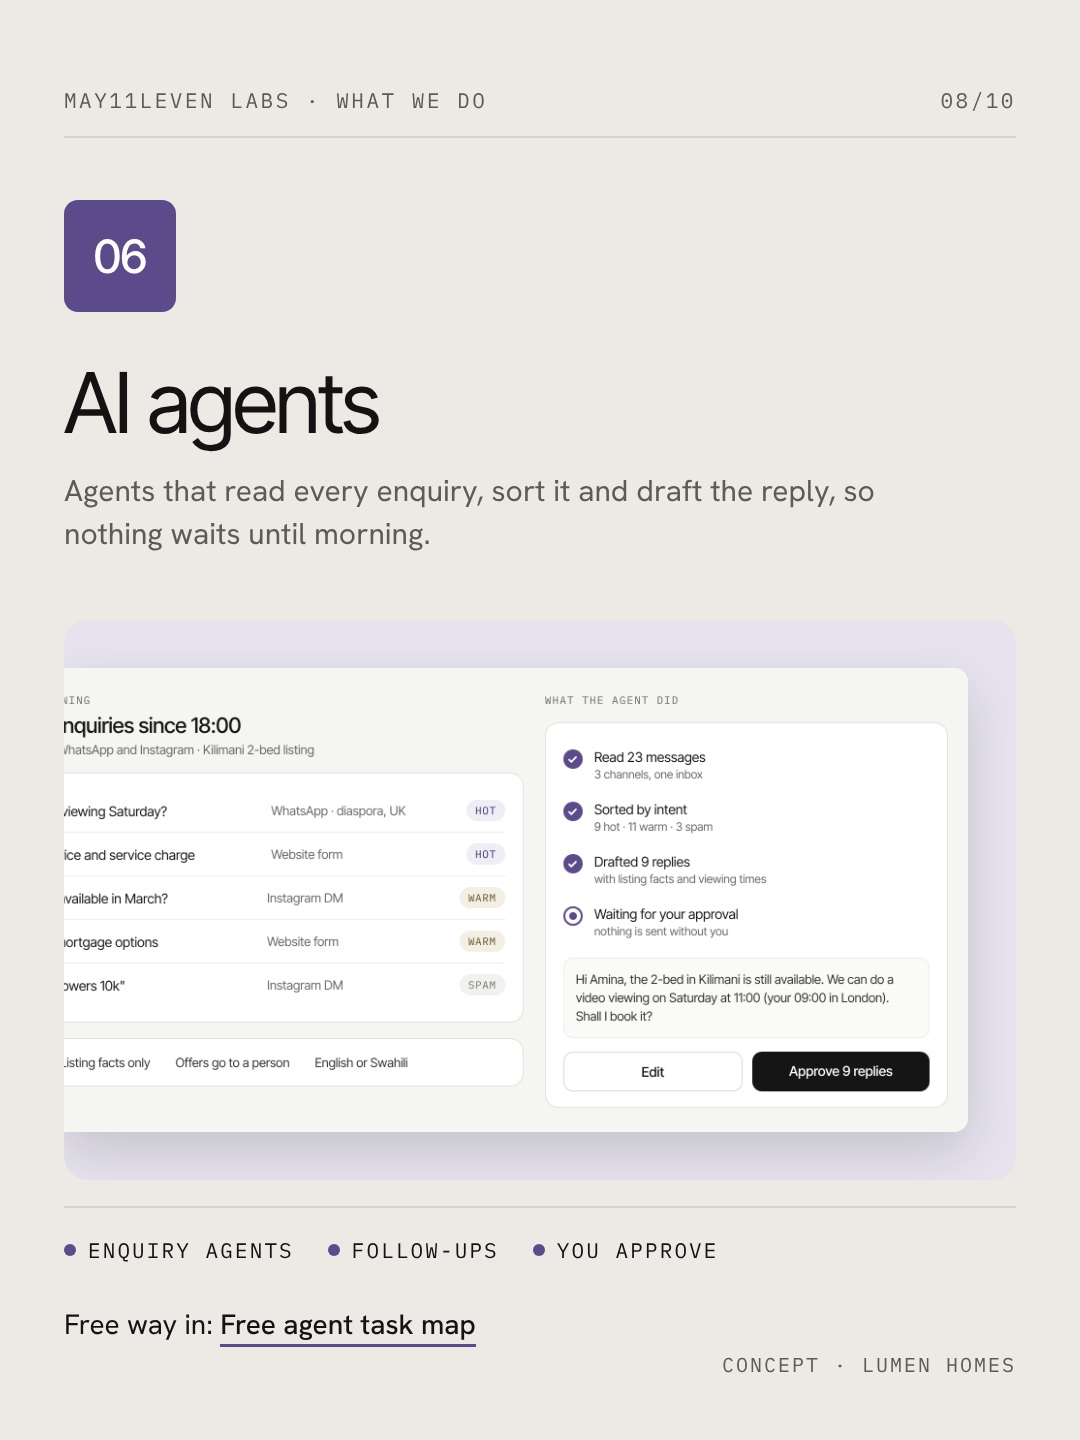
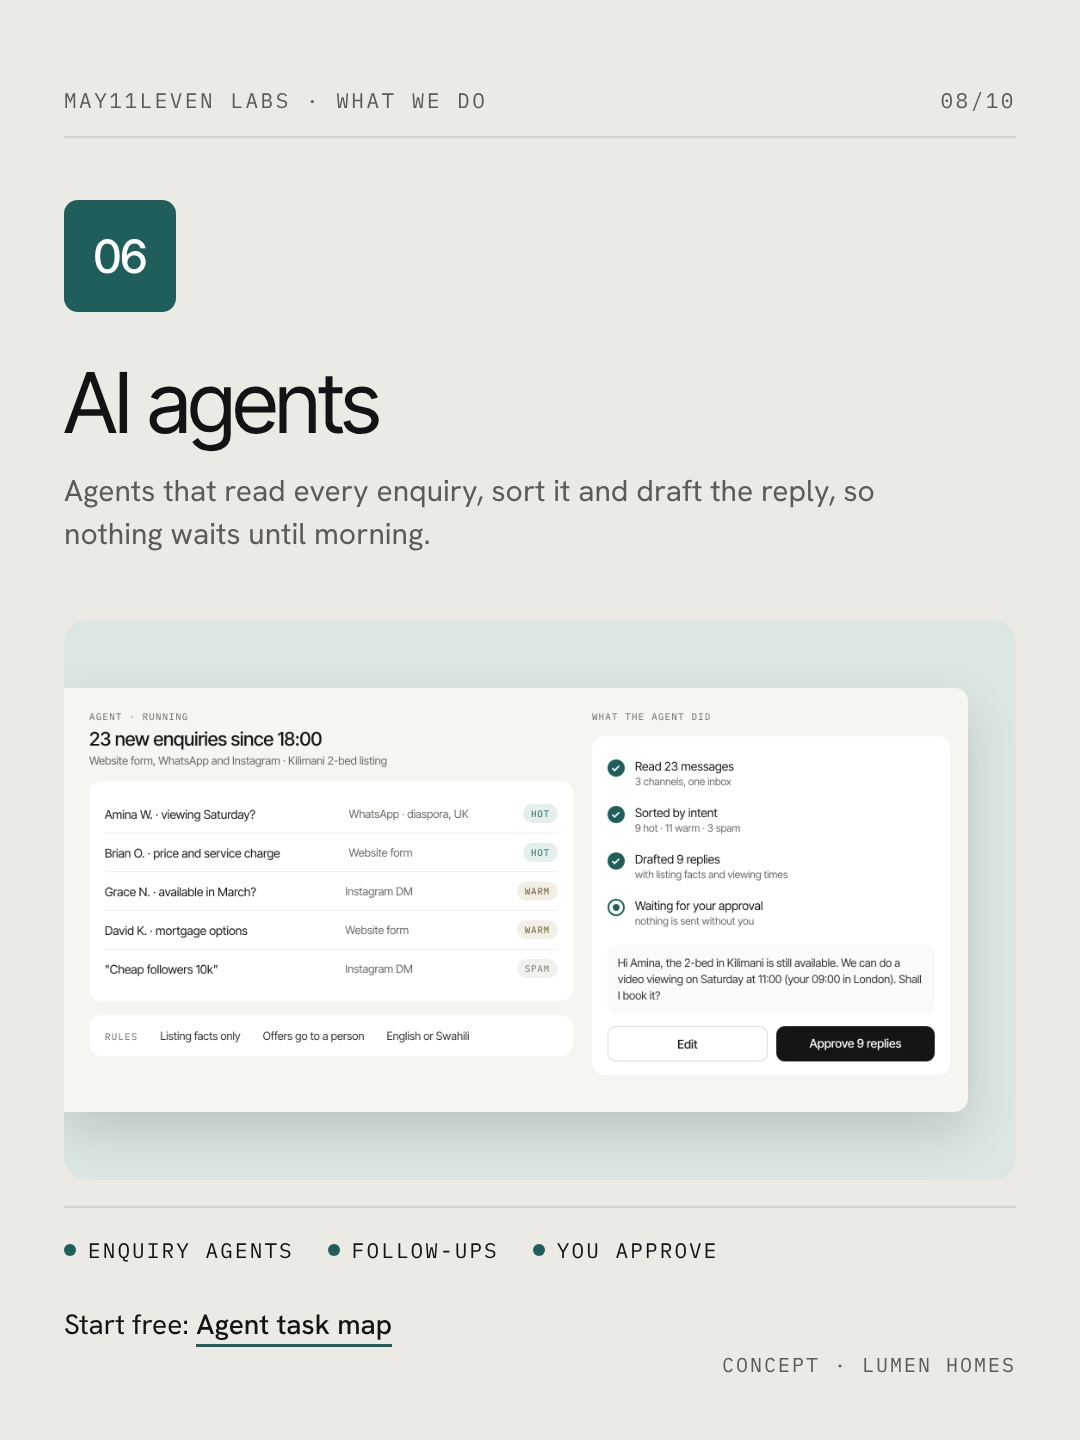
Services carousel: AI agents colour Dusk to Kelp (anti-slop), clean screen crop, 'Start free' offer line
Claude-Session: https://claude.ai/code/session_019pcNfRHGxsRYW5k4Gc3WRr

diff --git a/brand/code/agent.html b/brand/code/agent.html
@@ -5,9 +5,9 @@
 *{margin:0;box-sizing:border-box}
 body{width:1280px;height:480px;background:#F5F5F2;font-family:IT;color:#151515;display:flex}
 .side{width:220px; background:#fff; padding:22px 18px}
-.logo{font:500 18px IT;letter-spacing:-.01em;margin-bottom:26px}.logo span{color:#5B4B8A}
+.logo{font:500 18px IT;letter-spacing:-.01em;margin-bottom:26px}.logo span{color:#1F5E5A}
 .nav div{padding:9px 12px;border-radius:8px;font-size:14px;color:#55544F;margin-bottom:2px}
-.nav .on{background:#EFEDF5;color:#2E2550;font-weight:500}
+.nav .on{background:#E4EEEC;color:#17423F;font-weight:500}
 .main{flex:1;padding:26px 30px;display:flex;gap:22px}
 .col{flex:1.35}.col2{flex:1}
 h2{font:500 22px IT;letter-spacing:-.015em}.sub{font-size:13px;color:#6A6964;margin-top:4px}
@@ -16,10 +16,10 @@ h2{font:500 22px IT;letter-spacing:-.015em}.sub{font-size:13px;color:#6A6964;mar
 .row{display:flex;align-items:center;padding:11px 0;border-top:1px solid #EFEEEA;font-size:14px}
 .row:first-of-type{border-top:0}
 .nm{flex:1.4}.src{flex:1;color:#6A6964;font-size:13px}.tag{font:11px PM;letter-spacing:.06em;padding:4px 9px;border-radius:99px}
-.hot{background:#EFEDF5;color:var(--accent, currentColor)}.warm{background:#F3EFE6;color:#6B5420}.spam{background:#F1F1EF;color:#77766F}
+.hot{background:#E4EEEC;color:#1F5E5A}.warm{background:#F3EFE6;color:#6B5420}.spam{background:#F1F1EF;color:#77766F}
 .step{display:flex;gap:12px;padding:10px 0;font-size:14px;align-items:flex-start}
 .ic{width:20px;height:20px;border-radius:50%;flex:none;display:flex;align-items:center;justify-content:center;margin-top:1px}
-.done{background:#5B4B8A}.now{border:2px solid #5B4B8A}.now:after{content:"";width:8px;height:8px;border-radius:50%;background:#5B4B8A}
+.done{background:#1F5E5A}.now{border:2px solid #1F5E5A}.now:after{content:"";width:8px;height:8px;border-radius:50%;background:#1F5E5A}
 .st small{display:block;color:#6A6964;font-size:12px;margin-top:2px}
 .draft{background:#FAFAF8; border-radius:10px; padding:12px; font-size:13px; line-height:1.45; color:#33322E; margin-top:10px}
 .btns{display:flex;gap:10px;margin-top:14px}.b{flex:1;text-align:center;padding:11px;border-radius:10px;font:500 14px IT}

diff --git a/brand/code/slides.py b/brand/code/slides.py
@@ -1,0 +1,93 @@
+"""'What we do' services carousel. 9 slides 1080x1440. Bone base; each service owns its series accent."""
+import asyncio, os
+from playwright.async_api import async_playwright
+F = '/home/claude/fonts-lab/node_modules/@fontsource/'; K = '/home/claude/kit/'; D = '/home/claude/svc/'
+OUT = D + 'out/'; os.makedirs(OUT, exist_ok=True); N = 10
+BONE, INK, ASH = '#ECEAE4', '#141213', '#5E5B57'
+CSS = f"""
+@font-face{{font-family:IT;src:url({K}fonts/InterTight-Regular.ttf)}}
+@font-face{{font-family:IT;src:url({K}fonts/InterTight-Medium.ttf);font-weight:500}}
+@font-face{{font-family:HK;src:url({F}hanken-grotesk/files/hanken-grotesk-latin-400-normal.woff2)}}
+@font-face{{font-family:HK;src:url({F}hanken-grotesk/files/hanken-grotesk-latin-500-normal.woff2);font-weight:500}}
+@font-face{{font-family:IS;src:url({K}fonts/InstrumentSerif-Italic.ttf);font-style:italic}}
+@font-face{{font-family:PM;src:url({K}fonts2/PlexMono.ttf)}}
+*{{margin:0;box-sizing:border-box}}
+body{{width:1080px;height:1440px;position:relative;overflow:hidden;font-family:IT;background:var(--bg);color:var(--fg)}}
+.lab{{position:absolute;top:86px;font-family:PM;font-size:21px;letter-spacing:.12em;text-transform:uppercase;color:var(--mid)}}
+.l{{left:64px}}.r{{right:64px}}
+h1{{position:absolute;left:64px;right:64px;font-weight:400;font-size:84px;line-height:1.03;letter-spacing:-.03em}}
+h1 i{{font-family:IS;font-style:italic;font-size:1.12em;letter-spacing:-.01em}}
+p{{position:absolute;left:64px;font-family:HK;font-size:30px;line-height:1.42;color:var(--mid);max-width:860px}}
+.num{{position:absolute;left:64px;top:200px;width:112px;height:112px;border-radius:14px;display:flex;align-items:center;justify-content:center;font:500 46px IT;letter-spacing:-.02em}}
+.card{{position:absolute;left:64px;top:620px;width:952px;height:560px;border-radius:24px;overflow:hidden}}
+.dl{{position:absolute;left:64px;top:1226px;display:flex;gap:34px;font-family:PM;font-size:21px;letter-spacing:.1em;text-transform:uppercase;color:{INK}}}
+.dl span{{display:flex;align-items:center;gap:12px}}.dl span:before{{content:"";width:12px;height:12px;border-radius:50%;background:var(--ac)}}
+.free{{position:absolute;left:64px;top:1306px;font-family:HK;font-size:28px;color:{INK}}}
+.free b{{font-weight:500;border-bottom:3px solid var(--ac);padding-bottom:2px}}
+.tag{{position:absolute;right:64px;bottom:62px;font-family:PM;font-size:20px;letter-spacing:.1em;text-transform:uppercase;color:var(--mid)}}
+"""
+def page(i, body, bg=BONE, fg=INK, mid=ASH, ac='#FF4A1C'):
+    return f"""<!doctype html><html><head><meta charset=utf-8><style>{CSS}body{{--bg:{bg};--fg:{fg};--mid:{mid};--ac:{ac};--hr:{'#2A2826' if bg==INK else '#D6D3CC'}}}</style></head><body>
+<div class="lab l">May11Leven Labs · What we do</div><div class="lab r">{i:02d}/{N:02d}</div><div style="position:absolute;left:64px;right:64px;top:136px;height:2px;background:var(--hr)"></div>{body}</body></html>"""
+SV = [  # num, name, accent, digit colour, outcome, deliverables, free way in, proof html, concept tag
+ ('01', 'Brand identity', '#B4532A', '#FFFFFF', 'A name, a mark and a system that still works at 16 px and on a shopfront.',
+  ['Logo and marks', 'Colour and type', 'Brand guide'], 'Brand clinic for your logo',
+  f'<div class="card" style="background:url({D}clinic_wide.png) center/cover"></div>', 'Concept mark'),
+ ('02', 'Website design<br>and development', '#2F5D8A', '#FFFFFF', 'Fast, mobile-first sites, designed and built to take bookings and orders while you sleep.',
+  ['Design', 'Development', 'Booking, shop, SEO'], 'Homepage review',
+  f'''<div class="card" style="background:#DCDDD8;display:flex;align-items:center;justify-content:center"><div style="width:740px;border-radius:14px;overflow:hidden;box-shadow:0 20px 50px rgba(0,0,0,.14)">
+  <div style="height:40px;background:#F6F6F3;display:flex;align-items:center;gap:8px;padding:0 16px"><i style="width:11px;height:11px;border-radius:50%;background:#D0CFCA"></i><i style="width:11px;height:11px;border-radius:50%;background:#D0CFCA"></i><i style="width:11px;height:11px;border-radius:50%;background:#D0CFCA"></i>
+  <span style="margin-left:18px;flex:1;height:24px;border-radius:7px;background:#ECECE8;font:14px PM;color:#6A6A66;display:flex;align-items:center;padding-left:12px">inzu-lakehouse.com</span></div>
+  <img src="{D}../kivu/desk_hero.png" style="display:block;width:740px"></div></div>''', 'Concept · Inzu Lake House'),
+ ('03', 'App design<br>and development', '#2A45E8', '#FFFFFF', 'iOS, Android and web apps people understand on the first tap, from UX flows to launch.',
+  ['UX and UI', 'Development', 'Launch and support'], 'App idea for your business',
+  f'''<div class="card" style="background:#E2E5F7"><div style="position:absolute;left:350px;top:18px;width:252px;height:526px;border-radius:42px;background:#111;padding:9px;box-shadow:0 30px 60px rgba(0,0,0,.2)">
+  <img src="{D}../remake/hifi/s1.png" style="width:234px;height:508px;object-fit:cover;object-position:top;border-radius:34px;display:block"></div></div>''', 'Concept · fade. barber app'),
+ ('04', 'Packaging and 3D', '#C9922E', '#141213', 'Products that look ready to sell before the first unit is made.',
+  ['Packaging', '3D product shots', 'Launch reels'], 'Product visual idea',
+  f'<div class="card" style="background:url({D}../ata2/ata_wide.png) center 74%/cover"></div>', 'Concept · ata pepper oil'),
+ ('05', 'AI automation', '#4F6B3A', '#FFFFFF', 'Assistants that answer, book and take payment on WhatsApp, with your team one tap away.',
+  ['Booking bots', 'Payments', 'Staff take over'], 'Sketch of your first chat flow',
+  f'''<div class="card" style="background:#E3E8DF"><div style="position:absolute;left:350px;top:18px;width:252px;height:526px;border-radius:42px;background:#111;padding:9px;box-shadow:0 30px 60px rgba(0,0,0,.2)">
+  <img src="{D}chat.png" style="width:234px;height:508px;object-fit:cover;object-position:top;border-radius:34px;display:block"></div></div>''', 'Concept · Kora Dental'),
+ ('06', 'AI agents', '#1F5E5A', '#FFFFFF', 'Agents that read every enquiry, sort it and draft the reply, so nothing waits until morning.',
+  ['Enquiry agents', 'Follow-ups', 'You approve'], 'Agent task map',
+  f'''<div class="card" style="background:#DCE6E3"><div style="position:absolute;left:0;top:68px;width:904px;height:424px;border-radius:0 14px 14px 0;overflow:hidden;box-shadow:0 20px 50px rgba(0,0,0,.14);background:#F5F5F2">
+  <img src="{D}agent.png" style="display:block;width:1102px;margin-left:-190px"></div></div>''', 'Concept · Lumen Homes'),
+ ('07', 'Social and content', '#E8D23A', '#141213', 'A feed that looks like one brand, and content that brings people into your DMs.',
+  ['Content systems', 'Reels', 'Feed design'], 'Feed audit',
+  f'<div class="card" style="background:url({D}grid.png) center/cover"></div>', 'Our own feed'),
+]
+S = {}
+S[2] = page(2, f"""
+<h1 style="top:250px">One studio.<br>Seven ways we help<br>a business <i>grow.</i></h1>
+""" + ''.join(f"""<div style="position:absolute;left:64px;right:64px;top:{650+k*92}px;height:2px;background:#D6D3CC"></div>
+<div style="position:absolute;left:64px;top:{672+k*92}px;display:flex;align-items:center;gap:22px;font:400 40px IT;letter-spacing:-.02em">
+<span style="width:46px;height:46px;border-radius:10px;background:{a}"></span>{n.replace('<br>',' ')}</div>
+<div style="position:absolute;right:64px;top:{686+k*92}px;font:21px PM;letter-spacing:.12em;color:{ASH}">{num}</div>""" for k, (num, n, a, *_r) in enumerate(SV)) + f"""
+<div style="position:absolute;left:64px;right:64px;top:{650+7*92}px;height:2px;background:#D6D3CC"></div>
+<p style="top:1336px;font-size:26px">Every service has its own colour on our page. Swipe for what you get.</p>""")
+for k, (num, name, ac, dg, out, dls, free, proof, tag) in enumerate(SV):
+    S[3 + k] = page(3 + k, f"""
+<div class="num" style="background:{ac};color:{dg}">{num}</div>
+<h1 style="top:{340 if '<br>' in name else 360}px;font-size:{70 if '<br>' in name else 84}px">{name}</h1>
+<p style="top:{505 if '<br>' in name else 470}px">{out}</p>
+{proof}
+<div style="position:absolute;left:64px;right:64px;top:1206px;height:2px;background:#D6D3CC"></div><div class="dl" style="top:1236px">{''.join(f'<span>{d}</span>' for d in dls)}</div>
+<div class="free">Start free: <b>{free}</b></div>
+<div class="tag">{tag}</div>""", ac=ac)
+S[10] = page(10, f"""
+<svg style="position:absolute;left:64px;top:250px" width="92" height="92" viewBox="0 0 92 92"><rect x="18" y="10" width="16" height="72" fill="#FF4A1C"/><rect x="50" y="20" width="16" height="72" fill="#FF4A1C"/></svg>
+<h1 style="top:470px">Pick one.</h1>
+<h1 style="top:566px;color:#A8A49D">Or bring us <i style="color:#ECEAE4">all seven.</i></h1>
+<p style="top:780px;color:#A8A49D">Comment 11 and the number you need, 01 to 07. Every project starts with a free first look.</p>
+<div style="position:absolute;left:64px;top:930px;font:500 34px HK;line-height:1.55;color:{BONE}">hello@may11levenlabs.com<br>may11leven.labs@gmail.com</div>
+<div style="position:absolute;left:64px;bottom:72px;font:21px PM;letter-spacing:.12em;color:#8C8884">YOUR TASTE. OUR MACHINES.</div>""", bg=INK, fg=BONE, mid='#A8A49D')
+async def main():
+    async with async_playwright() as p:
+        b = await p.chromium.launch(); pg = await b.new_page(viewport={'width': 1080, 'height': 1440})
+        for i, h in S.items():
+            f = OUT + f's{i}.html'; open(f, 'w').write(h); await pg.goto('file://' + f); await pg.wait_for_timeout(350)
+            await pg.screenshot(path=OUT + f'svc-{i}.png')
+        await b.close()
+asyncio.run(main()); print('ok')

diff --git a/brand/code/cards3d.py b/brand/code/cards3d.py
@@ -1,0 +1,63 @@
+"""Brand clinic v4 hero: a logo eye-test card leaning on a cool grey wall, magnifier in front.
+No AI imagery. usage: OUT W H SAMPLES"""
+import sys, math, bpy
+from mathutils import Vector
+sys.path.insert(0, "/home/claude/r3d"); import real as R
+OUT, W, H, SAMP = sys.argv[1], int(sys.argv[2]), int(sys.argv[3]), int(sys.argv[4])
+sc = R.reset()
+
+def mat(name, col, rough=.5, metal=0.):
+    m = bpy.data.materials.new(name); m.use_nodes = True; p = m.node_tree.nodes["Principled BSDF"]
+    p.inputs["Base Color"].default_value = R.lin(col); p.inputs["Roughness"].default_value = rough
+    p.inputs["Metallic"].default_value = metal; return m, p
+
+# seamless cool-grey paper sweep (floor curving up into the wall)
+import bmesh
+me = bpy.data.meshes.new("sweep"); bm = bmesh.new(); prof = []
+for i in range(41):
+    t = i / 40
+    if t < .5: y, z = -1.2 + t * 2 * 1.2, 0
+    else:
+        a = (t - .5) * 2 * math.pi / 2; y, z = .25 * math.sin(a), .25 * (1 - math.cos(a))
+    prof.append((y, z))
+prof += [(.25, .25 + k * .1) for k in range(1, 16)]
+rows = [[bm.verts.new((x, y, z)) for (y, z) in prof] for x in (-1.5, 1.5)]
+for i in range(len(prof) - 1): bm.faces.new((rows[0][i], rows[1][i], rows[1][i + 1], rows[0][i + 1]))
+bm.to_mesh(me); sw = bpy.data.objects.new("sweep", me); sc.collection.objects.link(sw)
+for p in me.polygons: p.use_smooth = True
+pm, pp = mat("paper", "A9ADB0", .9)
+nz = pm.node_tree.nodes.new("ShaderNodeTexNoise"); nz.inputs["Scale"].default_value = 900; bb = pm.node_tree.nodes.new("ShaderNodeBump"); bb.inputs["Strength"].default_value = .03
+pm.node_tree.links.new(nz.outputs["Fac"], bb.inputs["Height"]); pm.node_tree.links.new(bb.outputs["Normal"], pp.inputs["Normal"])
+sw.data.materials.append(pm)
+
+
+CW, CH, CT = .21, .297, .0025
+cols = ["B4532A","2F5D8A","2A45E8","C9922E","4F6B3A","1F5E5A","E8D23A"]
+import math
+def card(col, z, ang, tex=None, dx=0, dy=0):
+    bpy.ops.mesh.primitive_cube_add(size=1); c = bpy.context.object; c.scale = (CW, CH, CT); bpy.ops.object.transform_apply(scale=True)
+    bv = c.modifiers.new("bv", "BEVEL"); bv.width = .0008; bv.segments = 2
+    m, p = mat("c"+col, col, .55); c.data.materials.append(m)
+    # pivot at the bottom-left corner so the deck fans like cards in a hand
+    c.location = (dx, dy, z)
+    c.rotation_euler = (0, 0, math.radians(ang))
+    if tex:
+        bpy.ops.mesh.primitive_plane_add(size=1); f = bpy.context.object; f.scale = (CW, CH, 1); bpy.ops.object.transform_apply(scale=True)
+        f.location = (0, 0, CT/2 + .0002); f.parent = c
+        fm, fp = mat("face", "FFFFFF", .7)
+        tx = fm.node_tree.nodes.new("ShaderNodeTexImage"); tx.image = bpy.data.images.load(tex); tx.interpolation = "Cubic"
+        fm.node_tree.links.new(tx.outputs["Color"], fp.inputs["Base Color"])
+        fz = fm.node_tree.nodes.new("ShaderNodeTexNoise"); fz.inputs["Scale"].default_value = 1600; fb = fm.node_tree.nodes.new("ShaderNodeBump"); fb.inputs["Strength"].default_value = .05
+        fm.node_tree.links.new(fz.outputs["Fac"], fb.inputs["Height"]); fm.node_tree.links.new(fb.outputs["Normal"], fp.inputs["Normal"])
+        f.data.materials.append(fm)
+    return c
+for i, col in enumerate(cols):
+    card(col, CT/2 + i*CT*1.05, 29 - i*4.2, dx=-.08 + i*.011, dy=-.12 + i*.005)
+card("ECEAE4", CT/2 + 7*CT*1.05, -2, tex="/home/claude/svc/topcard.png", dx=.005, dy=-.1)
+R.world_hdri("photo_studio_loft_hall", strength=.18, rot=70)
+R.area((-.8, -.6, .9), target=(0,-.1,0), size=.6, energy=75, color=(1, .99, .97))
+R.area((.7, -.5, .5), size=1.0, energy=10, color=(.92, .95, 1))
+R.camera((.05, -.62, .62), (-.03, -.1, 0), lens=60, fstop=5.6, focus=(-.03, -.1, .01))
+bpy.context.scene.view_settings.exposure = float(__import__("os").environ.get("EXP", "-1.3"))
+R.render(OUT, W, H, SAMP)
+R.finish(OUT, grain=.008, vignette=.08, warm=0)
